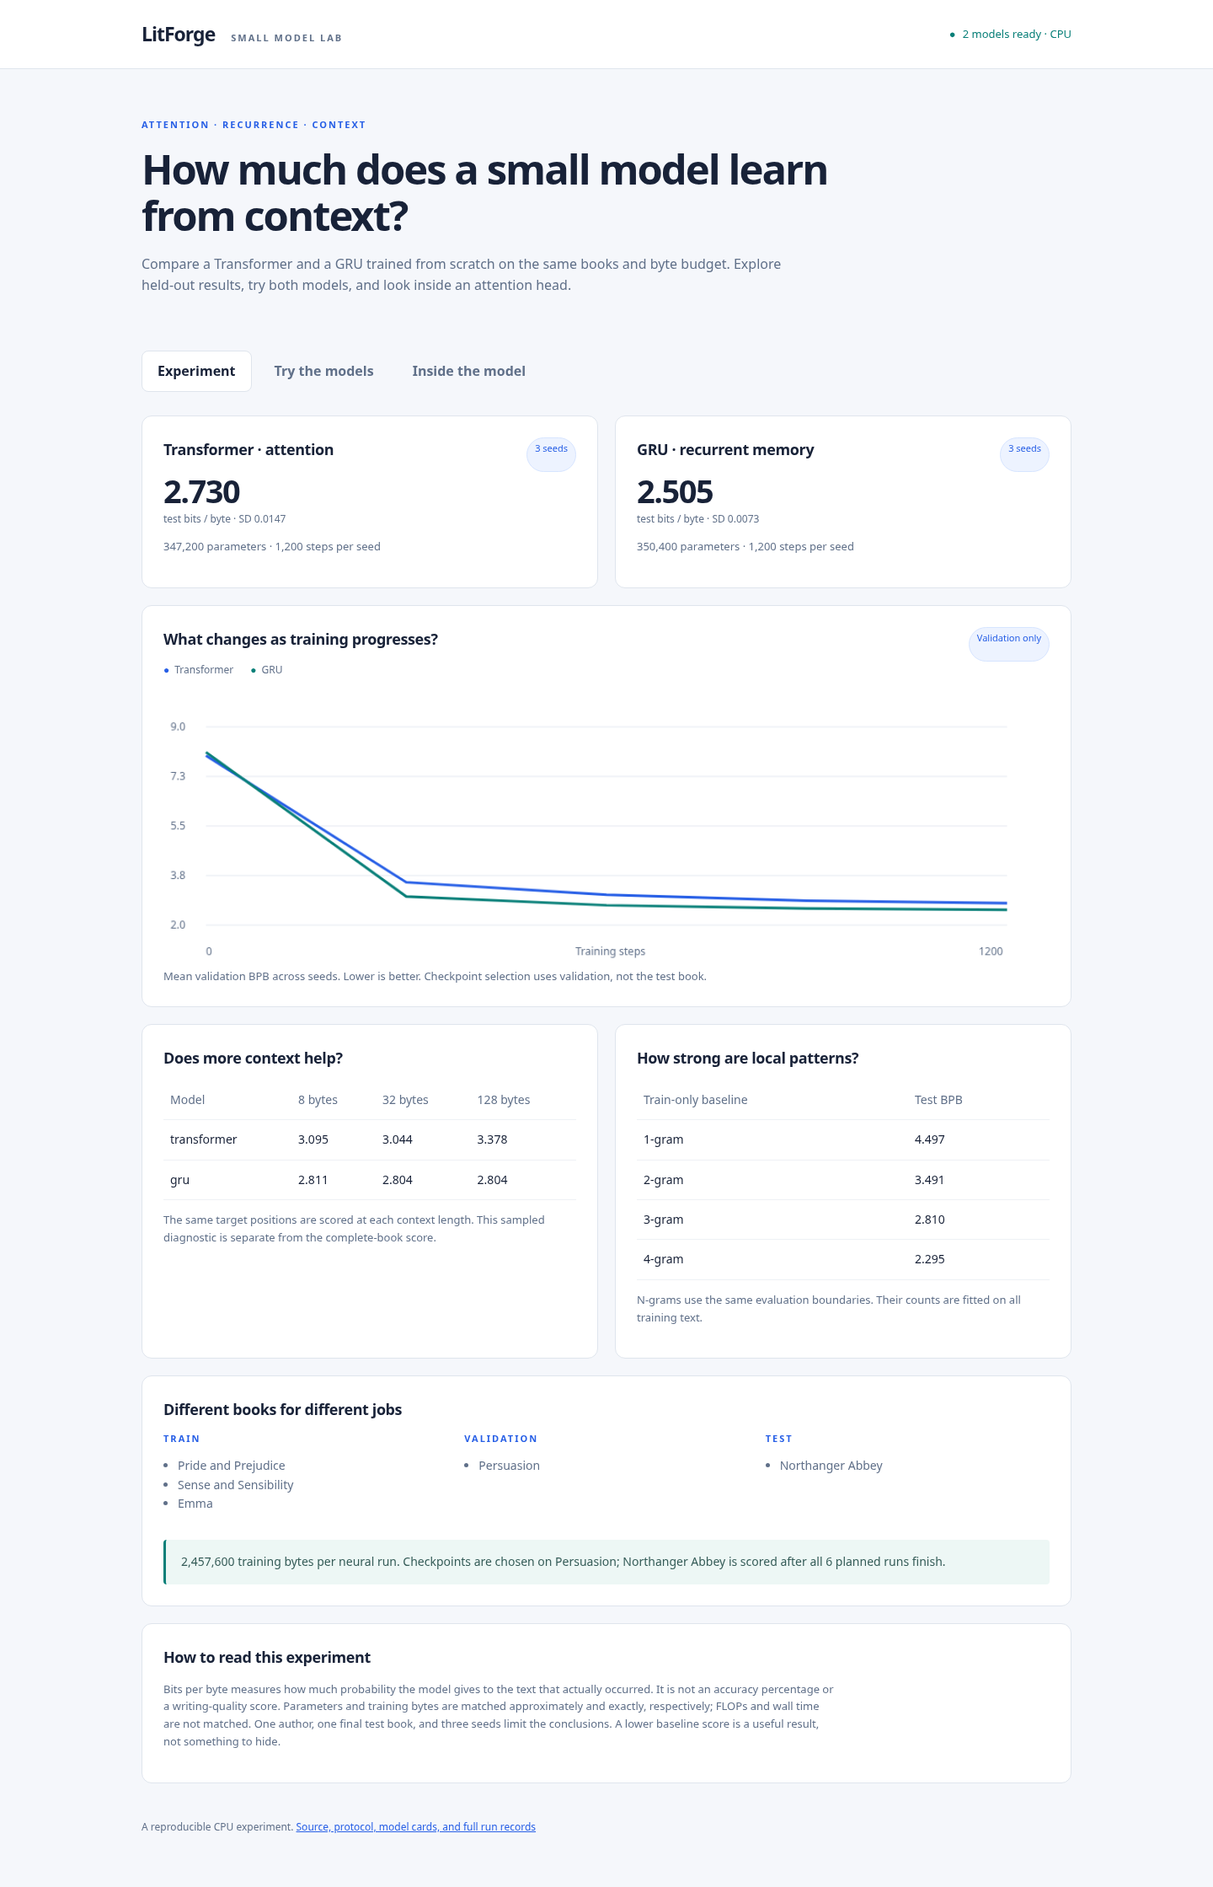
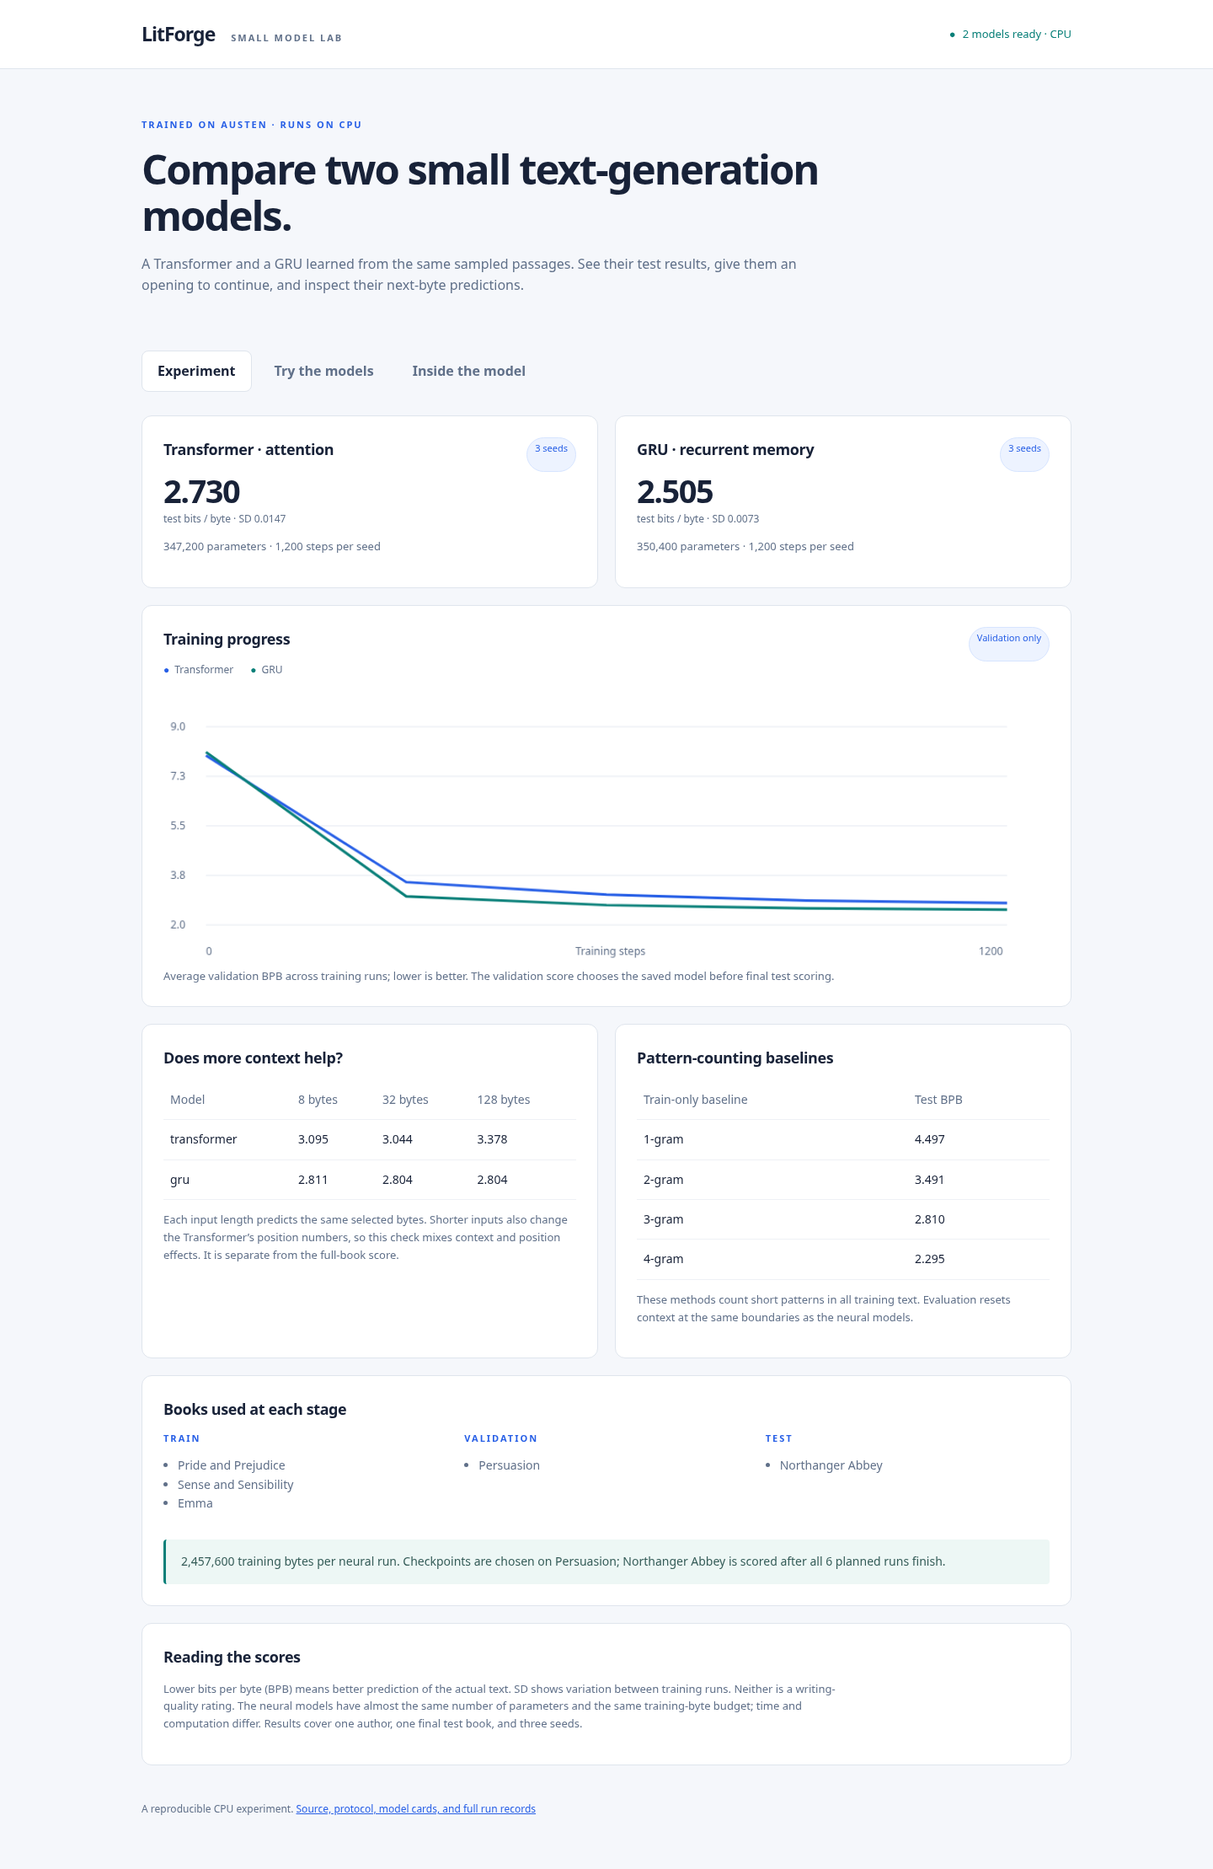
Tighten project writing and correct tied-score reports

diff --git a/litforge/static/index.html b/litforge/static/index.html
@@ -15,12 +15,12 @@
     </header>
     <main>
       <section class="hero">
-        <div class="eyebrow">ATTENTION · RECURRENCE · CONTEXT</div>
-        <h1>How much does a small model learn from context?</h1>
+        <div class="eyebrow">TRAINED ON AUSTEN · RUNS ON CPU</div>
+        <h1>Compare two small text-generation models.</h1>
         <p>
-          Compare a Transformer and a GRU trained from scratch on the same books
-          and byte budget. Explore held-out results, try both models, and look
-          inside an attention head.
+          A Transformer and a GRU learned from the same sampled passages. See
+          their test results, give them an opening to continue, and inspect
+          their next-byte predictions.
         </p>
       </section>
       <nav role="tablist" aria-label="Lab views">
@@ -38,7 +38,7 @@
         </div>
         <div class="card">
           <div class="row">
-            <h2>What changes as training progresses?</h2>
+            <h2>Training progress</h2>
             <span class="pill">Validation only</span>
           </div>
           <div class="legend">
@@ -51,8 +51,8 @@
             aria-label="Mean validation bits per byte over training steps"
           ></canvas>
           <div class="subtle">
-            Mean validation BPB across seeds. Lower is better. Checkpoint
-            selection uses validation, not the test book.
+            Average validation BPB across training runs; lower is better. The
+            validation score chooses the saved model before final test scoring.
           </div>
         </div>
         <div class="grid">
@@ -69,12 +69,14 @@
               </table>
             </div>
             <p class="subtle">
-              The same target positions are scored at each context length. This
-              sampled diagnostic is separate from the complete-book score.
+              Each input length predicts the same selected bytes. Shorter inputs
+              also change the Transformer’s position numbers, so this check
+              mixes context and position effects. It is separate from the
+              full-book score.
             </p>
           </div>
           <div class="card">
-            <h2>How strong are local patterns?</h2>
+            <h2>Pattern-counting baselines</h2>
             <div class="table-wrap">
               <table id="baselines">
                 <thead>
@@ -87,28 +89,28 @@
               </table>
             </div>
             <p class="subtle">
-              N-grams use the same evaluation boundaries. Their counts are
-              fitted on all training text.
+              These methods count short patterns in all training text.
+              Evaluation resets context at the same boundaries as the neural
+              models.
             </p>
           </div>
         </div>
         <div class="card">
-          <h2>Different books for different jobs</h2>
+          <h2>Books used at each stage</h2>
           <div id="splits" class="split-grid"></div>
           <div class="notice" id="protocol-note">
             Training and validation never score the held-out test book.
           </div>
         </div>
         <div class="card">
-          <h2>How to read this experiment</h2>
+          <h2>Reading the scores</h2>
           <p class="subtle">
-            Bits per byte measures how much probability the model gives to the
-            text that actually occurred. It is not an accuracy percentage or a
-            writing-quality score. Parameters and training bytes are matched
-            approximately and exactly, respectively; FLOPs and wall time are not
-            matched. One author, one final test book, and three seeds limit the
-            conclusions. A lower baseline score is a useful result, not
-            something to hide.
+            Lower bits per byte (BPB) means better prediction of the actual
+            text. SD shows variation between training runs. Neither is a
+            writing-quality rating. The neural models have almost the same
+            number of parameters and the same training-byte budget; time and
+            computation differ. Results cover one author, one final test book,
+            and three seeds.
           </p>
         </div>
       </section>

diff --git a/litforge/artifacts.py b/litforge/artifacts.py
@@ -82,13 +82,13 @@ def render_study_report(result, destination):
     lines = [
         "# Full results",
         "",
-        "This page shows the full measurements behind the simple result table in the README. We checked how well small models predict a book they did not train on. The numbers come from the saved run records.",
+        "These measurements come from the [saved run records](../artifacts/study/). The models were evaluated on complete books kept out of training.",
         "",
         "**How to read the score:** lower bits per byte (BPB) means better prediction of the actual text. It is not an accuracy percentage. See the [developer guide](DEVELOPMENT.md) for formulas and technical terms.",
         "",
         "## How the comparison was run",
         "",
-        f"Each neural model receives {plan['steps'] * plan['batch_size'] * next(iter(plan['models'].values()))['context']:,} sampled training bytes per run. The random seeds are {', '.join(map(str, plan['seeds']))}. The models are almost the same size and use the same training settings. Training time and computation are not matched, and the shared settings may suit one model better than the other.",
+        f"Each neural model receives {plan['steps'] * plan['batch_size'] * next(iter(plan['models'].values()))['context']:,} sampled training bytes per run. The random seeds are {', '.join(map(str, plan['seeds']))}. Model sizes are listed in the table below. Training uses the settings in the plan; time and computation are not matched. Shared settings may suit one model better than another.",
         "",
         "Training passages stay inside one book. Text is represented as UTF-8 bytes, using 256 possible values. Gutenberg headers and footers are removed. The earlier Shakespeare experiment used different text and character-level scores, so its results cannot be compared directly with these.",
         "",
@@ -163,11 +163,12 @@ def render_study_report(result, destination):
             )
     best = min(result["aggregate"], key=lambda r: r["mean_test_bpb"])
     ngram = min(result["ngram_baselines"], key=lambda row: row["bits_per_byte"])
-    verdict = (
-        f"The {ngram['order']}-gram comparison method scores better than the average of each neural model at this training budget."
-        if ngram["bits_per_byte"] < min(r["mean_test_bpb"] for r in result["aggregate"])
-        else "At least one neural model averages a better score than the strongest n-gram comparison method."
-    )
+    if ngram["bits_per_byte"] < best["mean_test_bpb"]:
+        verdict = f"The {ngram['order']}-gram baseline scores lower than every neural model's average."
+    elif ngram["bits_per_byte"] > best["mean_test_bpb"]:
+        verdict = f"The best neural average scores lower than the {ngram['order']}-gram baseline."
+    else:
+        verdict = f"The best neural average and the {ngram['order']}-gram baseline have the same score."
     lines += [
         "",
         f"Shortening the input also changes the position numbers used by the Transformer. This mixes two effects: how much text it sees and how it uses positions. With {plan['context_probe']['anchors']} requested target positions and {len(plan['seeds'])} seeds, this check cannot prove that more context always helps.",
@@ -176,9 +177,9 @@ def render_study_report(result, destination):
         "",
         "## What can we conclude?",
         "",
-        f"{best['architecture'].upper()} has the best average test score among the neural models. {verdict} This result applies to these books, settings, and training budget. It does not tell us which method is always best.",
+        f"{best['architecture'].upper()} has the lowest average neural test BPB. {verdict}",
         "",
-        "Using separate books gives a stronger test than splitting one book into sections. The final test still covers only one book by one author. These scores do not establish performance on other authors, conversation, or human writing quality. More books, more seeds, and different training budgets would be follow-up experiments.",
+        "The final test covers one book by one author. Testing more books and training budgets would show whether this ranking holds elsewhere. These scores do not measure conversation or human writing quality.",
         "",
         "## Real model output",
         "",

diff --git a/README.md b/README.md
@@ -2,15 +2,13 @@
 
 [![tests](https://github.com/Suryanshu24052006/Litforge-/actions/workflows/ci.yml/badge.svg)](https://github.com/Suryanshu24052006/Litforge-/actions/workflows/ci.yml)
 
-A small text-generation project built with PyTorch. Give it the start of a passage, and it tries to write what comes next.
+LitForge trains small models to continue passages of text. It compares a Transformer and a GRU with a simpler method that counts short text patterns.
 
-LitForge compares a Transformer, a GRU, and a simple method that counts short text patterns. The models were trained from scratch on Jane Austen's books. You can run both neural models, compare their writing, and look at their predictions in a local web app.
+Both neural models learned from three Jane Austen books. A local web app lets you try them, view the test results, and inspect their predictions. The trained files are included, and everything runs on a CPU.
 
-Maintained by [Suryanshu Chandel](https://github.com/Suryanshu24052006).
+## Run the app
 
-## Try it
-
-You'll need Python 3.11–3.13 and [uv](https://docs.astral.sh/uv/).
+Install [uv](https://docs.astral.sh/uv/) and use Python 3.11–3.13:
 
 ```bash
 git clone https://github.com/Suryanshu24052006/Litforge-.git
@@ -20,15 +18,9 @@ uv run --frozen python -m litforge verify-models
 uv run --frozen python -m litforge serve
 ```
 
-Open **http://127.0.0.1:8000**. The trained models are included. You don't need to train them first, use a GPU, or provide an API key.
+Open **http://127.0.0.1:8000**. Start with `It was a quiet evening, and ` in **Try the models**. Use the same opening and settings for both models to compare their output. Temperature controls how varied the sampling is.
 
-Start with an opening like `It was a quiet evening, and `. Try both models with the same settings, then change the temperature to see how the output changes.
-
-The app has three tabs:
-
-- **Experiment** shows the training curves and test results.
-- **Try the models** lets you write an opening and generate a continuation.
-- **Inside the model** shows possible next bytes and the weights from a selected attention head.
+**Experiment** has the training curves and test scores. **Inside the model** shows likely next bytes and a selected attention head's weights. The GRU uses recurrent memory, so it has no attention matrix.
 
 <details>
 <summary>App screenshot</summary>
@@ -37,11 +29,9 @@ The app has three tabs:
 
 </details>
 
-## The comparison
+## What was compared
 
-The Transformer uses attention to look back at earlier text. The GRU updates a memory state as it reads. The 4-gram baseline counts short patterns and uses their frequencies to predict the next byte.
-
-The two neural models are almost the same size. They received the same sampled passages and the same total training-byte budget for each seed. Each was trained three times with different random seeds. Training time and total computation were not matched.
+The Transformer has 347,200 parameters; the GRU has 350,400. Each was trained three times, using the same sampled passages and byte budget for each seed. Training time and total computation were not matched.
 
 | Purpose | Books |
 |---|---|
@@ -49,7 +39,7 @@ The two neural models are almost the same size. They received the same sampled p
 | Choosing the saved model | Persuasion |
 | Final test | Northanger Abbey |
 
-Using separate books lets the final test check text the models did not train on.
+The models predict UTF-8 bytes. A basic English letter takes one byte; some characters take several. Both models can use up to 128 bytes of recent input.
 
 ## Results
 
@@ -59,33 +49,31 @@ Using separate books lets the final test check text the models did not train on.
 | GRU | 2.505 |
 | Transformer | 2.730 |
 
-**BPB means bits per byte. Lower is better.** It measures how well a method predicts the actual text, rather than how good its writing sounds. The neural scores are averages across three training runs.
+**Lower bits per byte (BPB) means better prediction of the actual test text.** It isn't an accuracy percentage or a writing-quality score. Neural results are averages across three runs.
 
-The GRU beat the Transformer at this budget, and the 4-gram beat both. The baseline counts all training text directly; neural training samples passages repeatedly. The result is specific to these books and training settings.
+The GRU scored better than the Transformer. The 4-gram baseline beat both: it predicts a byte using counts of patterns with up to three preceding bytes. It counts all training text directly, whereas neural training samples passages repeatedly.
 
-The [full results](docs/STUDY.md) include all baselines, variation between runs, and unedited output samples.
+The [full results](docs/STUDY.md) include the other baselines, variation between runs, and actual generated passages. Raw records are in [artifacts/study](artifacts/study/).
 
-## What to expect
+## What still falls short
 
-The writing is rough. Both models invent words, repeat themselves, and lose track of a passage. Their input window is only 128 bytes. A byte often represents one basic English character, while some characters need several bytes.
+The models invent words, repeat phrases, and lose track of a passage. The final test covers one book by one author. More books and larger training budgets would be needed to judge how broadly the result holds.
 
-The final test uses one book by one author, so it says little about other authors or tasks. Attention pictures show how one head mixes information; they aren't a complete explanation of a prediction.
+The context-length check also has a limitation: shortening the input changes the Transformer's position numbers. Its scores mix context length with position effects. The attention picture shows mixing weights, not a full explanation of a prediction.
 
-The project includes saved training records and 40 passing tests covering training recovery, evaluation, model files, generation, and API behavior. The app was also checked in Chromium and from a fresh checkout. See the [validation notes](docs/VALIDATION.md).
+See [validation notes](docs/VALIDATION.md) for the 40-test suite and the browser and fresh-checkout checks.
 
-## Explore the project
+## Code and notes
 
-- [Developer guide](docs/DEVELOPMENT.md) — commands, code map, and technical terms.
-- [Models](docs/MODEL_CARD.md) — training settings and limitations.
-- [Data](DATA.md) — book sources and preparation.
-- [References](docs/REFERENCES.md) — methods and projects consulted.
+- [Developer guide](docs/DEVELOPMENT.md): commands and a map of the code.
+- [Model card](docs/MODEL_CARD.md): architecture, training settings, and limits.
+- [Data](DATA.md): book sources and preparation.
+- [References](docs/REFERENCES.md): papers, libraries, and implementations consulted.
 
-The original Shakespeare experiment is kept in [earlier results](docs/RESULTS.md) and [performance notes](docs/PERFORMANCE.md). It uses different text and score units, so its scores can't be compared directly with the Austen study.
+The [earlier Shakespeare results](docs/RESULTS.md) and [performance notes](docs/PERFORMANCE.md) use different data and score units.
 
-## People and contributions
+## Maintainer
 
-[Suryanshu Chandel (@Suryanshu24052006)](https://github.com/Suryanshu24052006) maintains this project. See [contributors](CONTRIBUTORS.md) for project credit and [contributing](CONTRIBUTING.md) if you'd like to help.
+[Suryanshu Chandel (@Suryanshu24052006)](https://github.com/Suryanshu24052006). Project credit is in [CONTRIBUTORS.md](CONTRIBUTORS.md); setup and pull-request notes are in [CONTRIBUTING.md](CONTRIBUTING.md).
 
-Ideas, bug reports, and small improvements are welcome. If a result looks wrong, include the command you ran and what you expected to happen.
-
-Code is available under the [MIT license](LICENSE). The training texts have their own source terms, described in [DATA.md](DATA.md).
+Code is [MIT licensed](LICENSE). Training-text sources and terms are listed in [DATA.md](DATA.md).

diff --git a/docs/STUDY.md b/docs/STUDY.md
@@ -1,12 +1,12 @@
 # Full results
 
-This page shows the full measurements behind the simple result table in the README. We checked how well small models predict a book they did not train on. The numbers come from the saved run records.
+These measurements come from the [saved run records](../artifacts/study/). The models were evaluated on complete books kept out of training.
 
 **How to read the score:** lower bits per byte (BPB) means better prediction of the actual text. It is not an accuracy percentage. See the [developer guide](DEVELOPMENT.md) for formulas and technical terms.
 
 ## How the comparison was run
 
-Each neural model receives 2,457,600 sampled training bytes per run. The random seeds are 17, 42, 73. The models are almost the same size and use the same training settings. Training time and computation are not matched, and the shared settings may suit one model better than the other.
+Each neural model receives 2,457,600 sampled training bytes per run. The random seeds are 17, 42, 73. Model sizes are listed in the table below. Training uses the settings in the plan; time and computation are not matched. Shared settings may suit one model better than another.
 
 Training passages stay inside one book. Text is represented as UTF-8 bytes, using 256 possible values. Gutenberg headers and footers are removed. The earlier Shakespeare experiment used different text and character-level scores, so its results cannot be compared directly with these.
 
@@ -61,9 +61,9 @@ Shortening the input also changes the position numbers used by the Transformer. 
 
 ## What can we conclude?
 
-GRU has the best average test score among the neural models. The 4-gram comparison method scores better than the average of each neural model at this training budget. This result applies to these books, settings, and training budget. It does not tell us which method is always best.
+GRU has the lowest average neural test BPB. The 4-gram baseline scores lower than every neural model's average.
 
-Using separate books gives a stronger test than splitting one book into sections. The final test still covers only one book by one author. These scores do not establish performance on other authors, conversation, or human writing quality. More books, more seeds, and different training budgets would be follow-up experiments.
+The final test covers one book by one author. Testing more books and training budgets would show whether this ranking holds elsewhere. These scores do not measure conversation or human writing quality.
 
 ## Real model output
 

diff --git a/CONTRIBUTORS.md b/CONTRIBUTORS.md
@@ -1,7 +1,7 @@
 # Contributors
 
-- [Suryanshu Chandel (@Suryanshu24052006)](https://github.com/Suryanshu24052006) — project owner, maintainer, and contributor.
+[Suryanshu Chandel (@Suryanshu24052006)](https://github.com/Suryanshu24052006) — project owner, maintainer, and contributor.
 
-The project builds on established machine-learning methods and the libraries listed in [references](docs/REFERENCES.md). Those credits are separate from repository contributions.
+See the [commit history](https://github.com/Suryanshu24052006/Litforge-/commits/main/) for repository changes. Contributors can add their name, profile, and a short description of their work here.
 
-Contributors are also recorded in the [Git history](https://github.com/Suryanshu24052006/Litforge-/commits/main/). If you contribute a change, add your name and GitHub profile here with a short description of what you worked on.
+Papers, libraries, and implementation references are credited in [REFERENCES.md](docs/REFERENCES.md).
